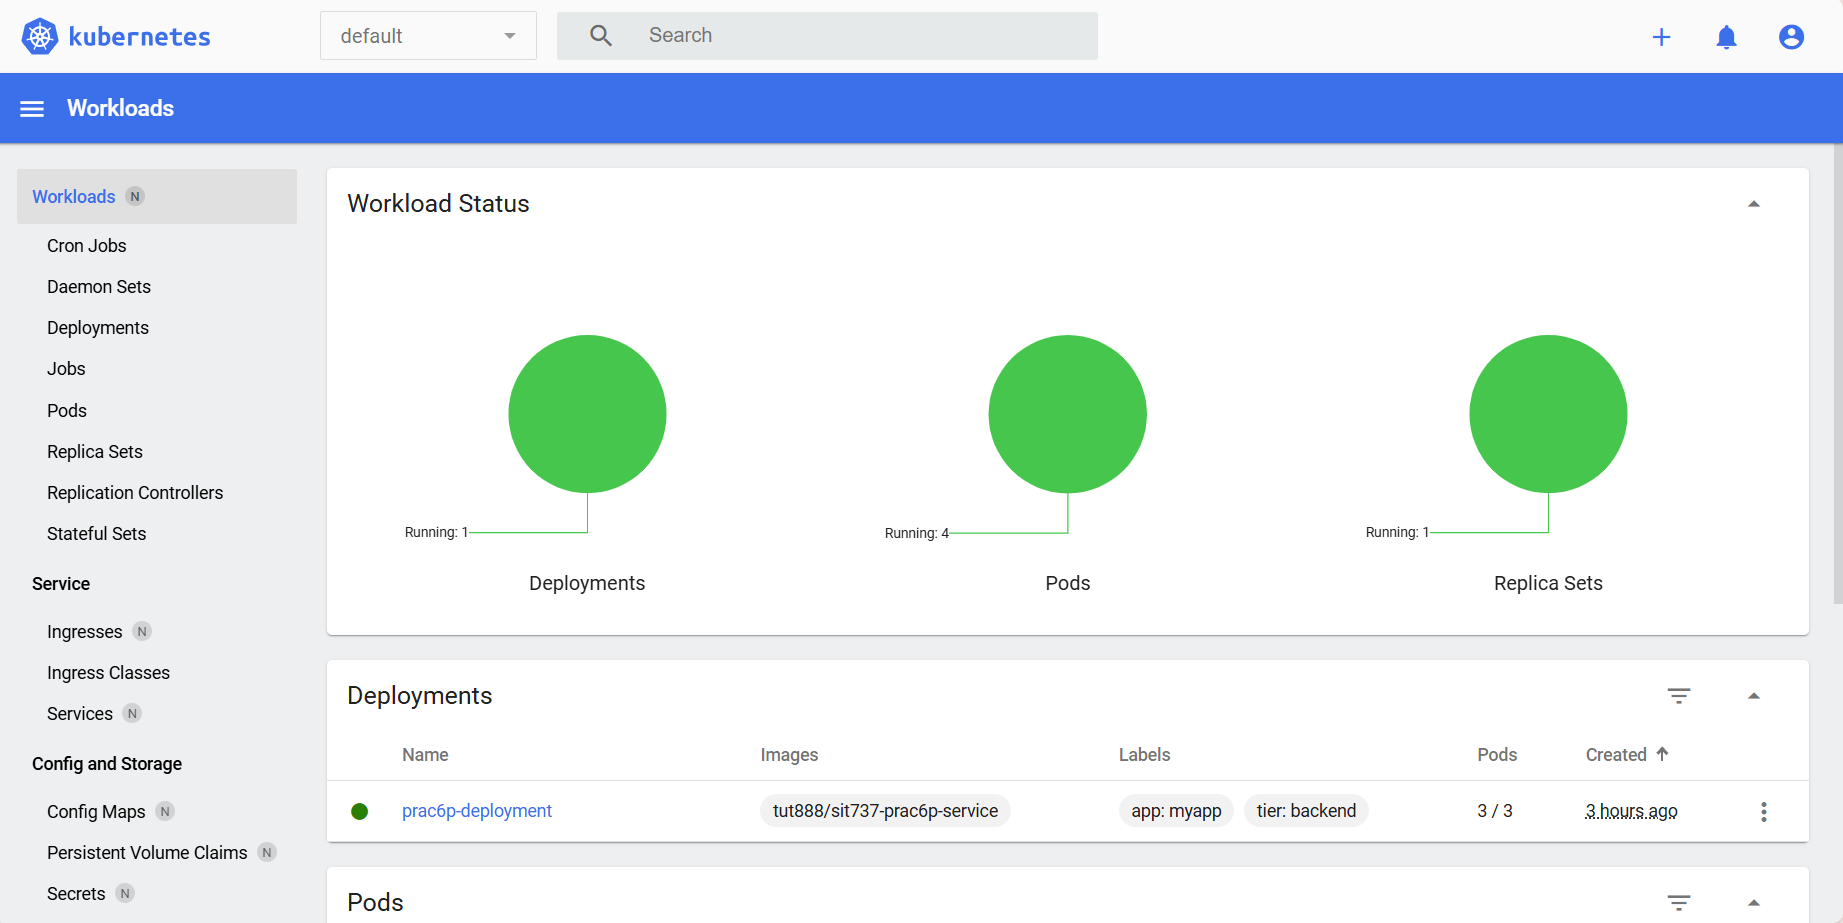
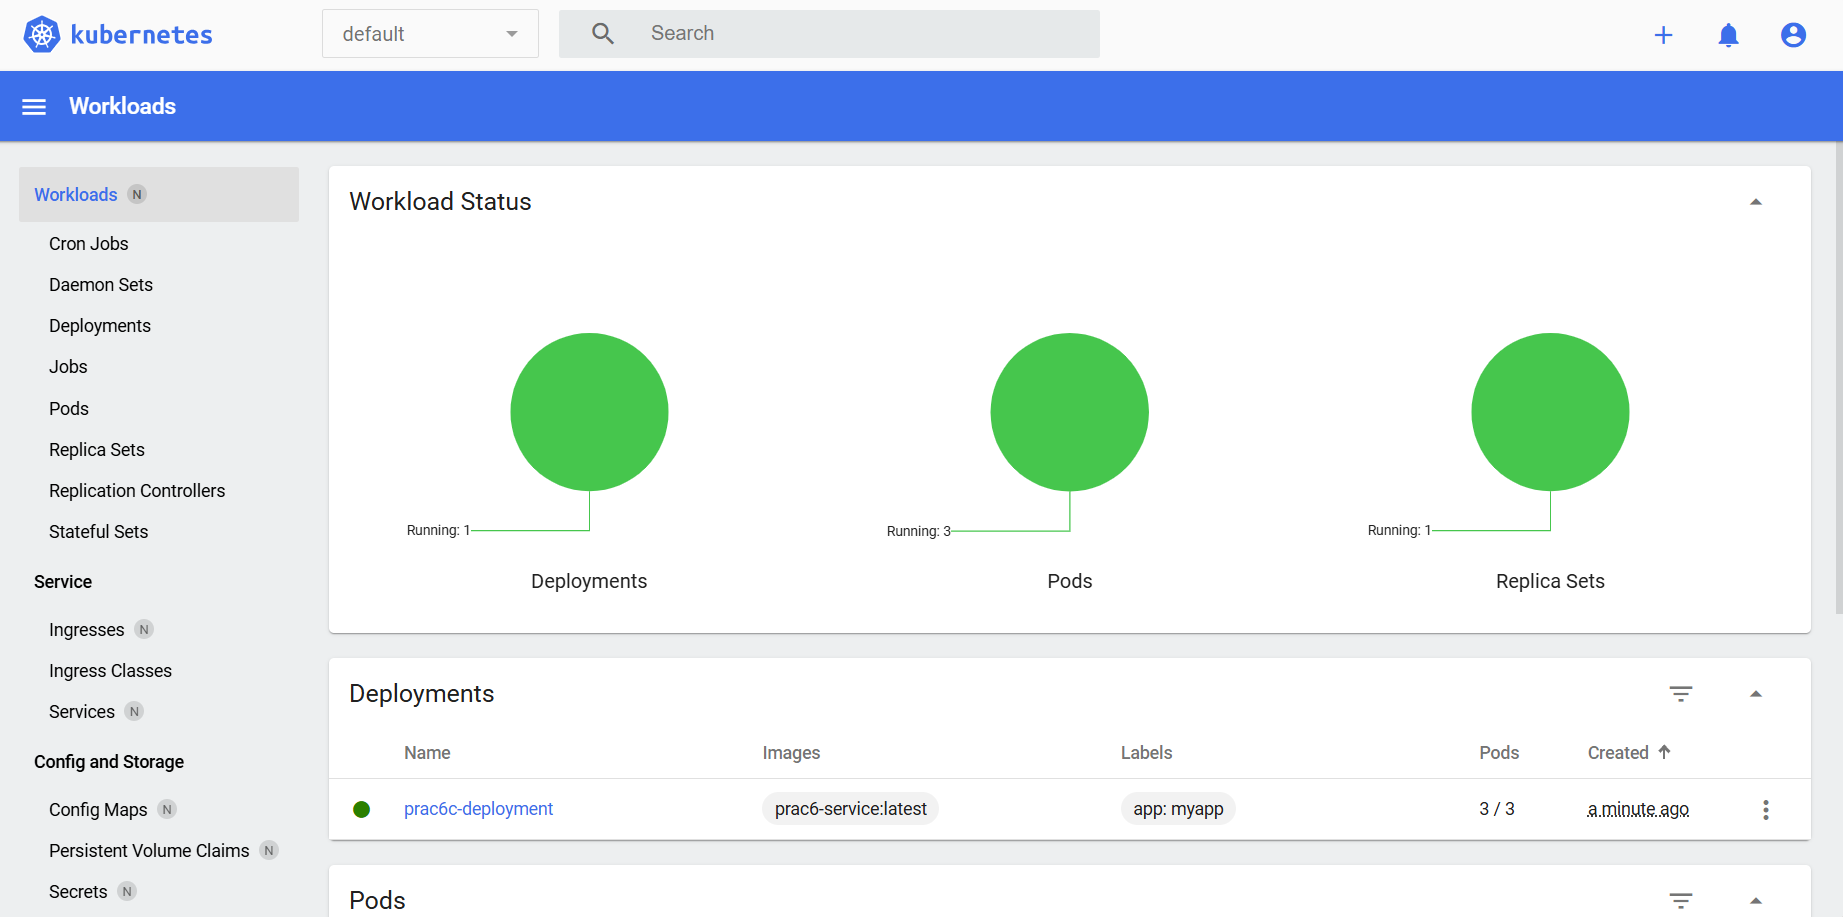
Completed Task 6.2C

diff --git a/project/index.js b/project/index.js
@@ -37,6 +37,7 @@ const mul = (n1, n2) => { return n1 * n2; }
 const exp = (n1, n2) => { return n1 ** n2; }
 const sqrt = (n) => { return Math.sqrt(n); }
 const mod = (n1, n2) => { return n1 % n2; }
+const log = (n) => { return Math.log(n); }
 
 const validateInput = (n1, n2, operation) => {
   // Log the information received from request
@@ -51,7 +52,7 @@ const validateInput = (n1, n2, operation) => {
   }
 
   // If the operation is square root, we don't need n2
-  if (operation !== "square root") {
+  if (operation !== "square root" && operation != "logarithm") {
     if (isNaN(n2)) {
       throw new Error("Num 2 is incorrectly defined");
     }
@@ -133,6 +134,29 @@ app.get("/mod", (req, res) => {
 
     // Calculate the result and send JSON response
     const result = mod(n1, n2);
+    res.status(200).json({
+      statuscode: 200,
+      data: result
+    });
+  } catch (error) {
+    // Catch the thrown exception if encounter errors 
+    errorHandling(error);
+    res.status(500).json({
+      statuscode: 500,
+      msg: error.toString()
+    })
+  }
+})
+
+// Logarithm 
+app.get("/log", (req, res) => {
+  try {
+    // Receive and validate input numbers
+    const n1 = parseFloat(req.query.n1);
+    validateInput(n1, null, "logarithm");
+
+    // Calculate the result and send JSON response
+    const result = log(n1);
     res.status(200).json({
       statuscode: 200,
       data: result

diff --git a/README.md b/README.md
@@ -1,85 +1,49 @@
-# SIT737 - 2025 - Task 6P
+# SIT737 - 2025 - Task 6.2C
 
-In this task, we will create a Kubernetes Cluster for a containerized application.
+This task is **extended from** [Task 6.1P](https://github.com/TUT888/sit737-2025/tree/prac6p) to interact with Kubernetes.
+
+Additionally, unlike Task 6.1P, this task added `imagePullPolicy: Never` in `containers` section to use a local image, avoiding the extra step of pulling the image from Docker Hub.
 
 In general, the activities includes:
-- Containerization
-- Kubernetes Cluster setup
-- Kubernetes Deployment and Service
+- Interact with the Deployed Application
+    - Verify the application is running or not
+    - Forward traffic from local port to Kubernetes service
+    - Access the applcation
+- Update the application and redeploy
 
 Detailed step-by-step instructions provided below.
 
 ![workload](image.png)
 
 
-## Containerization
-1. Create a [Dockerfile](./Dockerfile) in the [project](./project) folder
-    - Specify the node version
-    - Define the path to the application
-    - Copy all dependencies requirements from package*.json to current path
-    - Use `RUN npm install` to install all requirements
-    - Bundle the app source (`index.js`)
-    - Expose the app to specified port, and add run command for the image
-2. Build the Docker image named `prac6p-service` from the resources in the [project](./project) folder
+## Interact with the Deployed Application
+1. To verify the running pods and services, use following commands:
     ```
-    docker build -t prac6p-service ./project
+    kubectl get pods
+    kubectl get services
     ```
-3. Run the container to ensure it works correctly
+2. To forward the traffic from local port to Kubernetes service, use following command:
     ```
-    docker run -p 3040:3040 prac6p-service
+    kubectl port-forward service/<service-name> <local-port>:<service-port>
     ```
-4. Tag and push the image to DockerHub
+    *Note: The `<service-name>` and `service-port` is specified in `createService.yaml`, or we can double check it by using `kubectl get services` command.*
     ```
-    docker tag prac6p-service tut888/sit737-prac6p-service
-    docker push tut888/sit737-prac6p-service
+    // Example
+    kubectl port-forward service/prac6c-service 8080:3000
     ```
+3. The application is now accessible on our computer through `localhost:8080`.
 
-## Kubernetes Cluster setup
-1. Activate Hyper-V:
+    Try the API: `localhost:8080/add?n1=1&n2=2
     
-    **Control Panel** > **Turn Windows Features On or Off** > **Select Hyper-V**
-
-2. Install and enable Kubernetes:
-
-    **Start Docker** > **Setting** > **Kubernetes** > **Enable Kubernetes** > **Apply and Restart**
-
-3. Deploy the Dashboard UI:
+## Update the application and redeploy
+1. Modify the `index.js` file to adopt new feature. In this case, I added a new logarithm mathematics API.
+2. Rebuild the docker image with new tag. In this case, I used `plus`:
     ```
-    kubectl apply -f https://raw.githubusercontent.com/kubernetes/dashboard/v2.7.0/aio/deploy/recommended.yaml
+    docker build -t prac6-service:plus ./project
     ```
-
-4. Initialize `.yaml` files to:
-    - Create sample user: [dashboard-adminuser.yaml](./dashboard-adminuser.yaml)
-    - Create Cluster Role Binding: [cluster_role_binding.yaml](./cluster_role_binding.yaml)
-
-5. Apply the `.yaml` files:
+3. Update the image tag in `createDeployment.yaml` file, changing from `prac6-service:latest` to `prac6-service:plus`
+4. Re-apply the config file to make changes to the running container
     ```
-    kubectl apply -f dashboard-adminuser.yaml
-    kubectl apply -f dashboard-adminuser.yaml
-    ```
-
-## Kubernetes Deployment and Service
-1. Login to Dashboard
-    1. Launch the dashboard (serving on localhost:8001 by default)
-        ```
-        kubectl proxy
-        ```
-    2. Create login token for created user
-        ```
-        kubectl -n kubernetes-dashboard create token admin-user
-        ```
-    3. Copy the generated token to login and access the dashboard using below URL:
-
-        `http://localhost:8001/api/v1/namespaces/kubernetes-dashboard/services/https:kubernetes-dashboard:/proxy/`
-2. Initialize `.yaml` files to:
-    - Create pod: [createPod.yaml](./createPod.yaml)
-    - Create replica set: [createReplicaSet.yaml](./createReplicaSet.yaml)
-    - Create deployment: [createDeployment.yaml](./createDeployment.yaml)
-    - Create service: [createService.yaml](./createService.yaml)
-3. Apply the `.yaml` files:
-    ```
-    kubectl apply -f createPod.yaml
-    kubectl apply -f createReplicaSet.yaml
     kubectl apply -f createDeployment.yaml
-    kubectl apply -f createService.yaml
     ```
+5. Try new API: `localhost:8080/log?n1=5`
